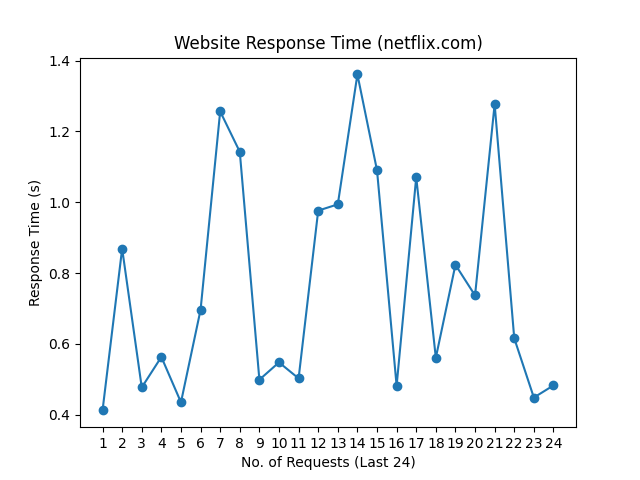
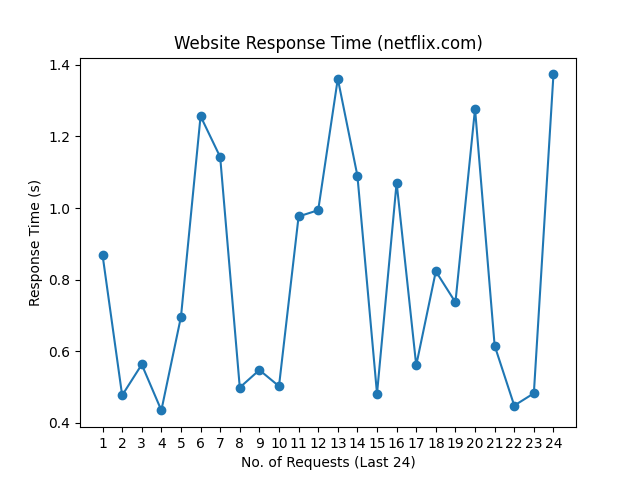
update README.md, history and graph

diff --git a/README.md b/README.md
@@ -1,10 +1,10 @@
 # Web Monitoring
 
-Last Checked: 29/01/2024 09:00
+Last Checked: 30/01/2024 08:59
 
 | Website | Response Time (s) | Status | Avg Uptime (%) |
 |---------|-------------------|--------|----------------|
 | www.thiswebsiteisdown.net | 0 <br> <img src="graph/thiswebsiteisdown.net.png" alt="Graph" width="200" height="200">  | ❌ Down | 0.00 |
-| www.netflix.com | 0.482857 <br> <img src="graph/netflix.com.png" alt="Graph" width="200" height="200">  | ✅ Up | 100.00 |
-| www.google.com | 0.083475 <br> <img src="graph/google.com.png" alt="Graph" width="200" height="200">  | ✅ Up | 100.00 |
-| www.facebook.com | 0.210080 <br> <img src="graph/facebook.com.png" alt="Graph" width="200" height="200">  | ✅ Up | 100.00 |
+| www.netflix.com | 1.373042 <br> <img src="graph/netflix.com.png" alt="Graph" width="200" height="200">  | ✅ Up | 100.00 |
+| www.google.com | 0.086492 <br> <img src="graph/google.com.png" alt="Graph" width="200" height="200">  | ✅ Up | 100.00 |
+| www.facebook.com | 0.896598 <br> <img src="graph/facebook.com.png" alt="Graph" width="200" height="200">  | ✅ Up | 100.00 |
